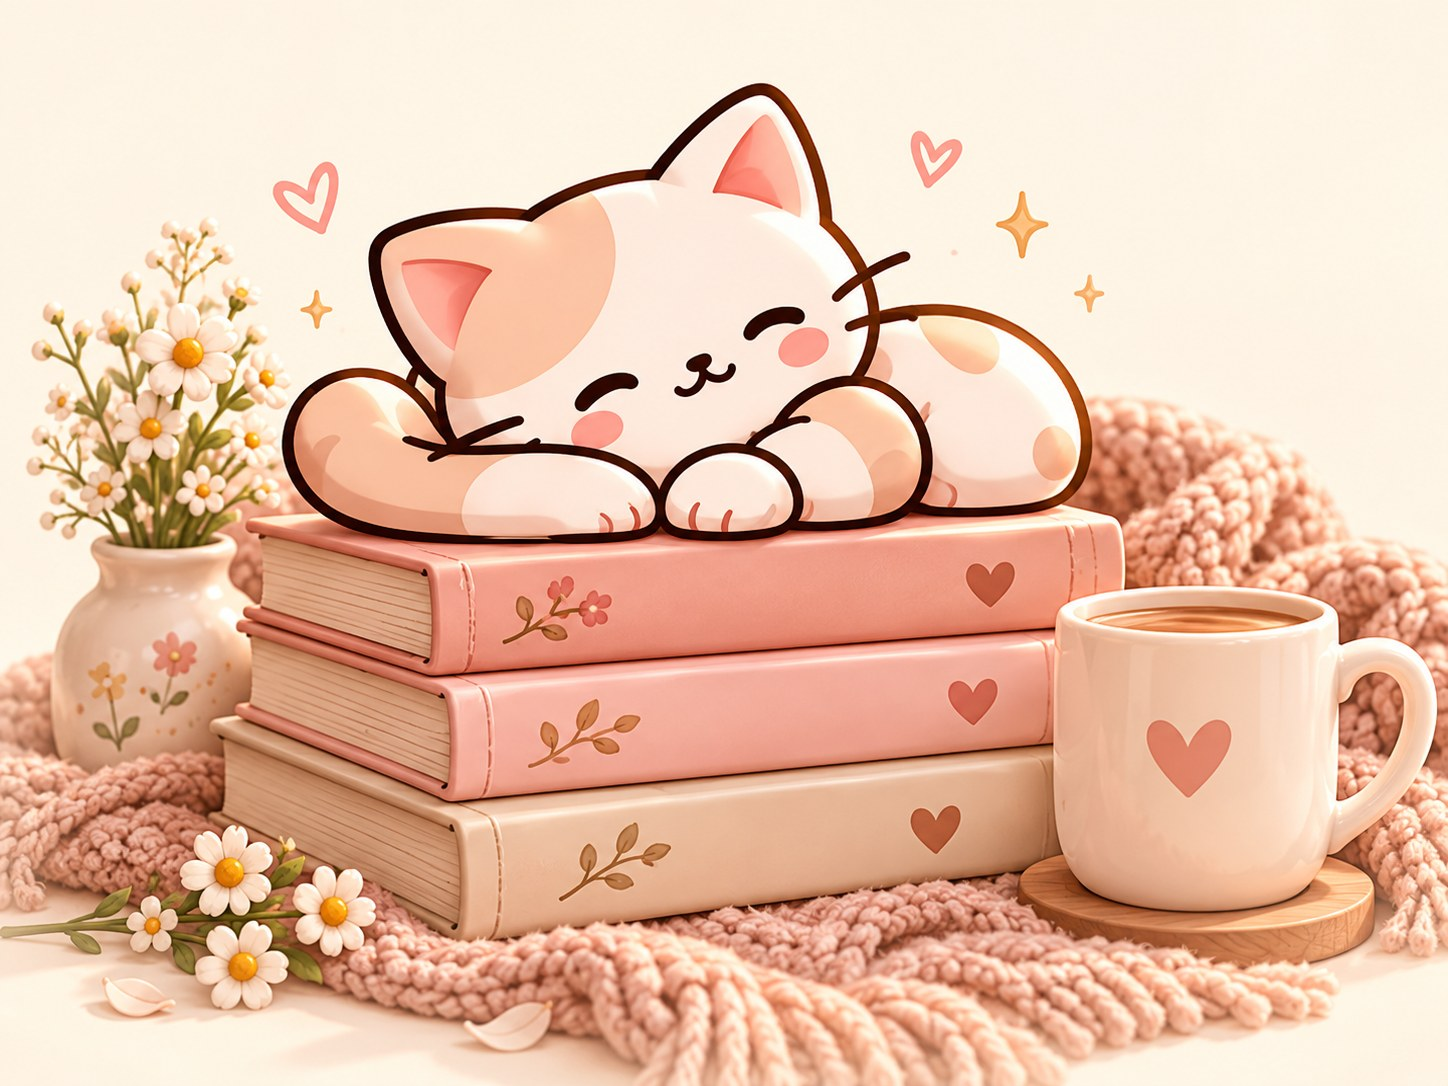
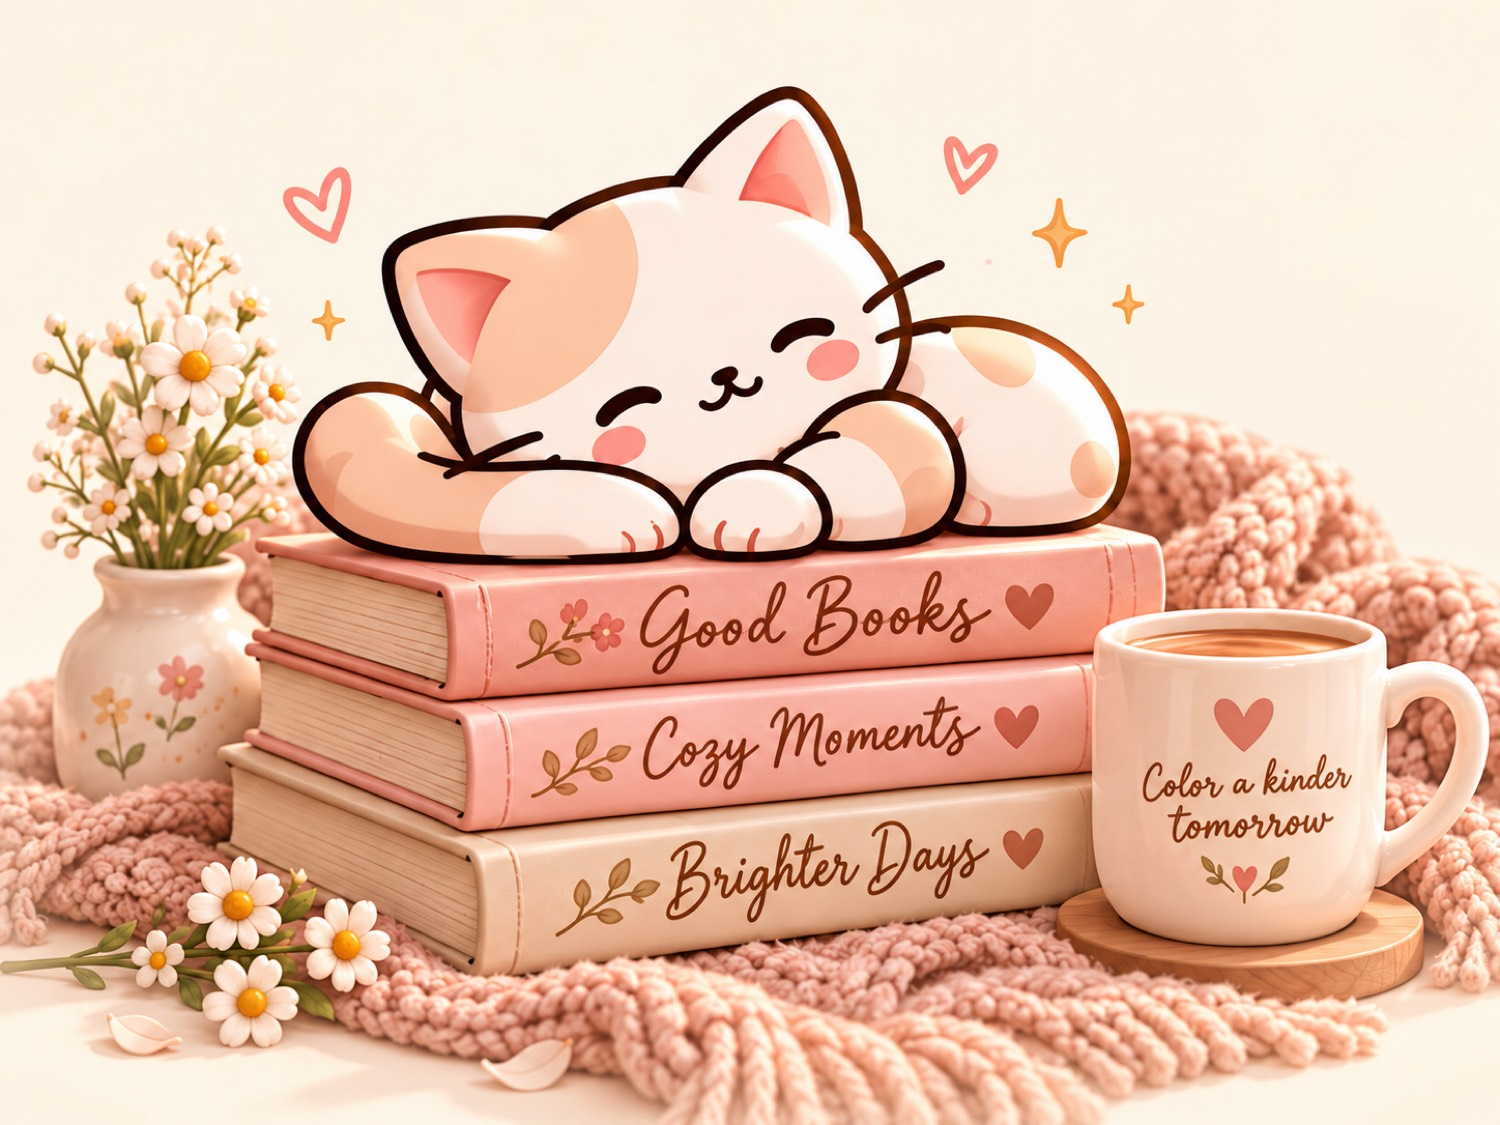
Replace hero and bottom page images

diff --git a/index.html b/index.html
@@ -107,7 +107,7 @@
         <a class="btn" href="#books" data-t="explore">Explore the Books →</a>
         <div class="perks"><span data-t="p1">Relax your mind</span><span data-t="p2">Spark your creativity</span><span data-t="p3">Enjoy little moments</span></div>
       </div>
-      <div class="hero-art"><img src="assets/hero-still.jpg?v=3" alt="Gatinho Mimocozy a dormir nos livros" /></div>
+      <div class="hero-art"><img src="assets/hero-still.jpg?v=4" alt="Gatinho Mimocozy a dormir nos livros" /></div>
     </section>
     <section id="books">
       <h2 data-t="feat">Featured Books</h2>
@@ -175,7 +175,7 @@
           <a class="btn" href="https://www.tiktok.com/@creative.pages.co" target="_blank" rel="noopener">TikTok</a>
           <a class="btn soft" href="https://www.instagram.com/creativepagescoloring" target="_blank" rel="noopener">Instagram</a>
         </div>
-        <img src="assets/community.jpg" alt="" />
+        <img src="assets/community.jpg?v=2" alt="" />
       </div>
     </section>
     <section class="letter">
